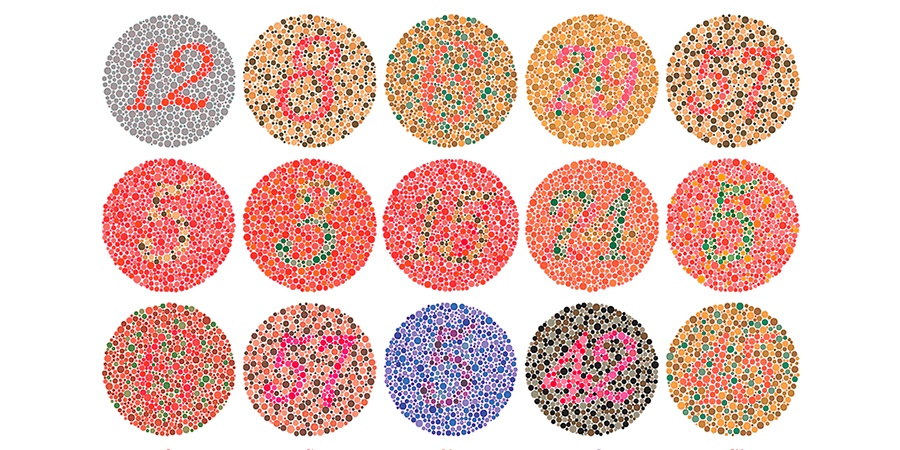
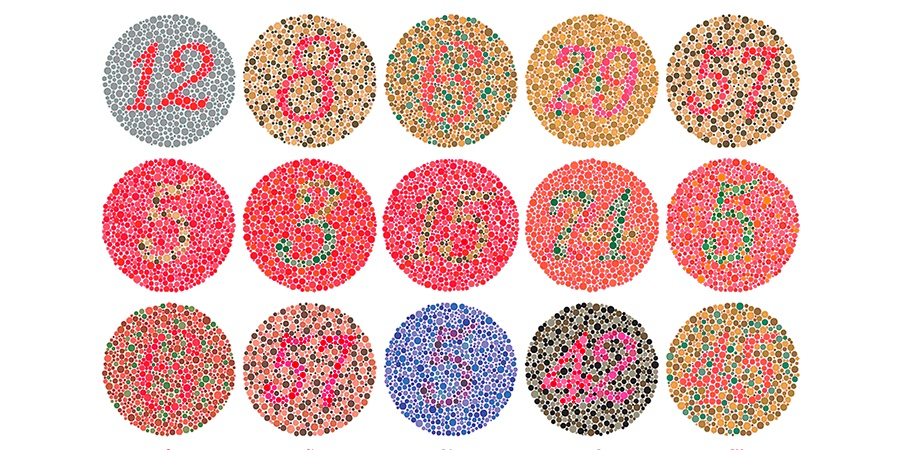
Add files via upload

diff --git a/main.cpp b/main.cpp
@@ -12,7 +12,7 @@ bool isMonochrome(double ignoreMonochrome, double subColor1, double subColor2, d
     }
     return false;
 }
-void normFunction(Mat &image, double recolorFactor, PIXEL pixel, double threshold, string gbDecay, double ignoreMonochrome)
+void normFunction(Mat &image, double recolorFactor, PIXEL pixel, double ignoreMonochrome)
 {
     Vec3b color = image.at<Vec3b>(Point(pixel.first, pixel.second));
     unsigned char red = color.val[2];       //Red
@@ -25,31 +25,28 @@ void normFunction(Mat &image, double recolorFactor, PIXEL pixel, double threshol
             return;
         }
     }
-    if (abs(red - green) / 255 < 1 - threshold)
+    unsigned int rValue = round(red * (1 + recolorFactor));
+    if (rValue > 255)
     {
-        unsigned int rValue = round(red * (1 + recolorFactor));
-        if (rValue > 255)
+        int gValue = green - (rValue - 255);
+        image.at<Vec3b>(Point(pixel.first, pixel.second))[2] = 255;
+        if (gValue < 0)
         {
-            int gValue = gbDecay == "sqr_diff" ? round((green - 255 * pow(((rValue - 255.0) / 255), 2.0))) : green - (rValue - 255);
-            image.at<Vec3b>(Point(pixel.first, pixel.second))[2] = 255;
-            if (gValue < 0)
-            {
-                int bValue = gbDecay == "sqr_diff" ? round((blue - 255 * pow((-gValue / 255), 2.0))) : blue + gValue;
-                image.at<Vec3b>(Point(pixel.first, pixel.second))[1] = 0;
-                image.at<Vec3b>(Point(pixel.first, pixel.second))[0] = bValue < 0 ? 0 : bValue;
-            }
-            else
-            {
-                image.at<Vec3b>(Point(pixel.first, pixel.second))[1] = gValue;
-            }
+            int bValue = blue + gValue;
+            image.at<Vec3b>(Point(pixel.first, pixel.second))[1] = 0;
+            image.at<Vec3b>(Point(pixel.first, pixel.second))[0] = bValue < 0 ? 0 : bValue;
         }
         else
         {
-            image.at<Vec3b>(Point(pixel.first, pixel.second))[2] = rValue;
+            image.at<Vec3b>(Point(pixel.first, pixel.second))[1] = gValue;
         }
     }
+    else
+    {
+        image.at<Vec3b>(Point(pixel.first, pixel.second))[2] = rValue;
+    }
 }
-void normalizeColors(Mat &image, double recolorFactor=.5, double threshold=1, string gbDecay="lin_diff", double ignoreMonochrome=-1)
+void normalizeColors(Mat &image, double recolorFactor=.5, double ignoreMonochrome=-1)
 {
     const unsigned int imageWidth = image.cols;
     const unsigned int imageHeight = image.rows;
@@ -57,14 +54,14 @@ void normalizeColors(Mat &image, double recolorFactor=.5, double threshold=1, st
     {
         for (unsigned int j = 0; j < imageHeight; j++)
         {
-            normFunction(image, recolorFactor, PIXEL(i, j), threshold, gbDecay, ignoreMonochrome);
+            normFunction(image, recolorFactor, PIXEL(i, j), ignoreMonochrome);
         }
     }
 }
 int main() {
     Mat image = imread("../../ImageIn/cbTests.jpg", IMREAD_COLOR);
     // resize(image, image, Size(1260, 700), INTER_LINEAR);
-    normalizeColors(image, .5, 0, "sqr_diff", .9);
+    normalizeColors(image, .35, .9);
     imshow("Output", image);
     // imwrite("../../ImageOut/cbTests.jpg", image);
     int i = waitKey(0);
